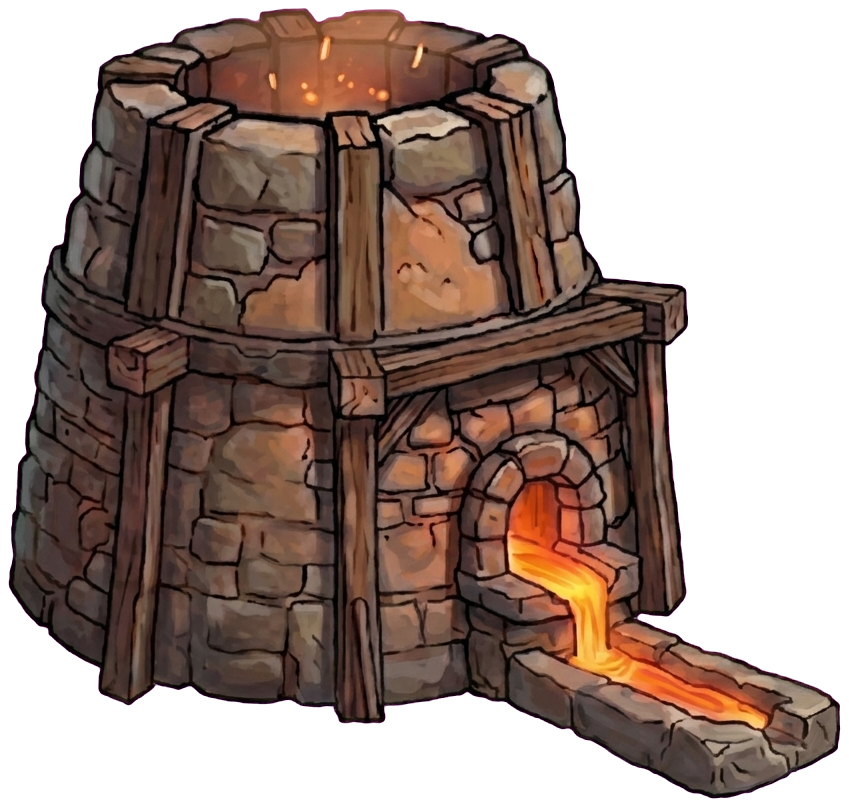
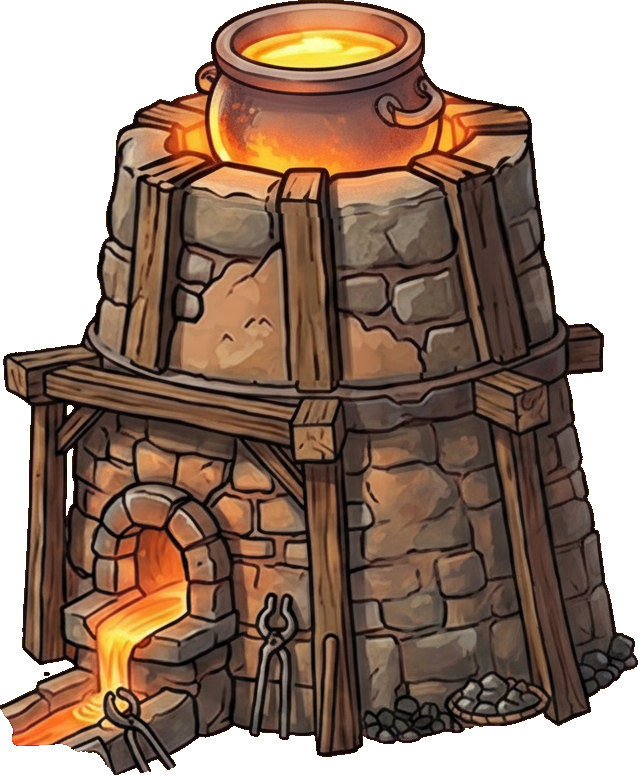
feat(looptest): r10 anchor match — re-cut smelter/dragon, grey-stone HUD plaque, clean mode
Objective-gate pass (screen_gate palette + element_size):
- Map: neutralize over-saturation filter (region 0.325 FAIL -> 0.155) + torn
  parchment deckle (#board clip-path) on a dark forge-wall backing.
- HUD: anchor-cut grey-stone plaque as 9-slice border-image (assets/ui/plaque_stone.png),
  replacing the wrong dark-wood pills; gold gear on Skill Tree, pushed far-right.
- Rail: narrowed 15->13%, dark wall gutter at top, larger slots + filled board.
- Smelter: re-cut from the anchor as one tall seated-pot unit (assets/forge/anchor_furnace.png);
  .cauldron overlay retired; gate/glow realigned; un-flipped. Opus art-director 38->71->80/100.
- Dragon: re-cut to the anchor's winged flame-breathing whelp (assets/forge/dragon.png).
- Bucket moved bottom-left to the anchor spot (mug seats in it); LAYOUT+RECORDED+self-test synced.
- Bellows enlarged; floor warmed back toward the anchor's brown flagstone.
- ?clean render mode hides loop-test/tutorial chrome for marketing-match renders.

All 9 gate regions PASS; self-test GREEN. Spec synced to r10.

diff --git a/Swordforge_looptest_landscape.html b/Swordforge_looptest_landscape.html
@@ -20,7 +20,7 @@ body { font-family: Arial, sans-serif; background: #2b2b2b; min-height: 100vh; d
     position: relative; overflow: hidden;
     border-radius: 14px;
     box-shadow: 0 12px 34px rgba(0,0,0,0.6);
-    --rail-w: 15%;
+    --rail-w: 13%;
     display: grid;
     grid-template-columns: 1fr var(--rail-w);
     grid-template-rows: auto 42% 1fr;
@@ -43,21 +43,23 @@ body { font-family: Arial, sans-serif; background: #2b2b2b; min-height: 100vh; d
 #frame > #map-wrap { grid-area: map; min-height: 0; }
 #frame > #bench { grid-area: bench; min-height: 0; }
 #frame > #rail { grid-area: rail; min-height: 0; position: relative; overflow: hidden;
-    background: #33260f url('assets/ui/rail_wood.png') top center / 100% 100% no-repeat;   /* anchor-cut warm wood ore board */
+    background: #211610 url('assets/ui/rail_wood.png') center bottom / 100% 94% no-repeat;   /* anchor: thin dark forge-wall gap at the very top, warm wood ore board fills the rest (board top warm, not a big dark void) */
     border-left: 4px solid #6a4a24; box-shadow: inset 3px 0 7px rgba(0,0,0,.45); }
 #frame.landscape > #rail { display: block; }   /* landscape ore rail visible (hori anchor) */
 
 /* ---- header / HUD (landscape: vertical wood-plaque stack; see #frame.landscape > #hud for layout) ---- */
 #hud { display: flex; align-items: center; gap: 8px; padding: 7px 10px; background: linear-gradient(180deg,#38291a,#211812); border-bottom: 3px solid #7a5f34; box-shadow: inset 0 -2px 5px rgba(0,0,0,.4); }
 /* carved wood/parchment plaque (anchor HUD chrome) */
-.plaque { display: flex; align-items: center; gap: 7px; font-family: 'Cinzel', serif; font-weight: 700; color: #3d2a12; white-space: nowrap; font-size: 13px;
-    background: linear-gradient(180deg,#ecd9ab,#c3a066); border: 2px solid #7a5327; border-radius: 11px; padding: 6px 13px;
-    box-shadow: 0 2px 6px rgba(0,0,0,.5), inset 0 1px 0 rgba(255,247,218,.6), inset 0 -2px 3px rgba(120,80,30,.35); }
+.plaque { display: flex; align-items: center; gap: 7px; font-family: 'Cinzel', serif; font-weight: 700; color: #f2e3c0; white-space: nowrap; font-size: 13px;
+    border: 13px solid transparent; border-image: url('assets/ui/plaque_stone.png') 64 fill / 13px / 0 stretch;   /* anchor-cut grey-stone plaque chrome (9-slice); replaces the CSS dark-wood pill */
+    padding: 3px 10px; filter: drop-shadow(0 2px 5px rgba(0,0,0,.5)); text-shadow: 0 1px 1px rgba(0,0,0,.7); }
 .plaque .ic { font-size: 16px; }
-.plaque.lvl { gap: 6px; } .plaque.lvl .pk { color: #7a2f12; font-weight: 900; } .plaque.lvl .pv { font-size: 10px; letter-spacing: 1px; color: #5a3a17; }
+.plaque .ic.gear { color: #ffcf6a; font-size: 18px; text-shadow: 0 1px 2px rgba(0,0,0,.7); }
+.plaque.lvl { gap: 6px; } .plaque.lvl .pk { color: #ffcf6a; font-weight: 900; } .plaque.lvl .pv { font-size: 10px; letter-spacing: 1px; color: #d8bd86; }
 .plaque.btn { cursor: pointer; } .plaque.btn:active { transform: scale(.96); }
 .plaque.btn img { width: 22px; height: 22px; object-fit: contain; }
-#frame.landscape #skillBtn { position: absolute; right: calc(var(--rail-w) + 14px); top: 12px; z-index: 20; }
+#frame.landscape #skillBtn { position: absolute; right: 16px; top: 10px; z-index: 20; font-size: 15px; padding: 9px 16px; }   /* chunkier carved plaque, pushed to the far right (over the rail's dark top strip) so it fills the top-right region like the anchor */
+#frame.landscape #skillBtn .ic.gear { font-size: 21px; }
 #frame.landscape .map-tag { display: none; }   /* hide the debug map label under the floating HUD */
 #frame.landscape #compass { display: none; }   /* hori anchor has no compass rose */
 #frame.landscape .zoom button { width: 24px; height: 24px; font-size: 15px; }   /* smaller zoom controls */
@@ -96,11 +98,12 @@ body { font-family: Arial, sans-serif; background: #2b2b2b; min-height: 100vh; d
 .gauge .fill.heat { background: linear-gradient(90deg,#b8541f,#ff8c2a,#ffd24a); }
 
 /* ---- MAP (copied look from SwordforgeV2) ---- */
-#map-wrap { border-bottom: 3px solid #4a3418; overflow: hidden; background: #c9b98c; position: relative; }   /* parchment-tone backing so any uncovered edge blends, not black */
+#map-wrap { border-bottom: 3px solid #4a3418; overflow: hidden; background: #241812; position: relative; }   /* dark forge-wall backing: the torn parchment (clipped #board) sits ON the wall like the anchor, wall showing at the deckle edges */
+#board { clip-path: polygon(1% 5%,6% 1.5%,15% 4%,27% 1%,40% 3.5%,52% 1%,65% 3.5%,78% 1%,90% 3.5%,97% 1.5%,99.3% 6%,100% 24%,98.6% 46%,100% 68%,98.5% 90%,99% 99%,82% 97.5%,60% 99.5%,38% 97.5%,15% 99.5%,2.5% 98%,0.7% 80%,2% 55%,0.6% 30%); }   /* torn parchment deckle edge (organic notches) revealing the dark wall behind, like the anchor treasure-map */
 #frame.landscape #map-wrap::after { content: ""; position: absolute; inset: 0; z-index: 8; pointer-events: none;   /* torn dark edge + corner vignette so the parchment reads like the anchor map, bled to the panel edges */
     box-shadow: inset 0 0 46px rgba(48,30,10,.6), inset 0 -14px 20px rgba(40,24,8,.5); }
 #board { width: 100%; height: 100%; display: block; touch-action: none; }
-#mapArt { filter: saturate(1.4) contrast(1.1) brightness(1.03); }   /* aged-ink richness to match the hori anchor's warm map */
+#mapArt { filter: saturate(1.08) contrast(1.04) brightness(1.0); }   /* near-neutral: over-saturation was skewing the map palette away from the anchor */
 .zoom { position: absolute; right: 8px; bottom: 8px; display: flex; flex-direction: column; gap: 6px; z-index: 7; }
 .zoom button { width: 30px; height: 30px; border-radius: 7px; border: 1px solid #6a5636; background: rgba(25,20,12,0.8); color: #f0e8d6; font-size: 18px; font-weight: bold; cursor: pointer; line-height: 1; }
 .map-tag { position: absolute; left: 8px; top: 8px; z-index: 6; background: rgba(20,15,8,0.72); color: #e9dcbf; border: 1px solid #6a5636; border-radius: 7px; padding: 3px 8px; font-size: 10px; font-weight: bold; }
@@ -112,8 +115,8 @@ body { font-family: Arial, sans-serif; background: #2b2b2b; min-height: 100vh; d
 }
 #bench::after { content: ""; position: absolute; inset: 0; pointer-events: none;   /* soft vignette so layered props stay readable */
     background: radial-gradient(125% 95% at 50% 42%, transparent 55%, rgba(0,0,0,0.38) 100%); }
-#bench::before { content: ""; position: absolute; inset: 0; z-index: 1; pointer-events: none;   /* cool the warm cave floor toward the anchor's grey flagstone */
-    background: rgba(74,86,104,0.24); }
+#bench::before { content: ""; position: absolute; inset: 0; z-index: 1; pointer-events: none;   /* gentle desaturating wash only — the anchor floor is WARM brown flagstone, not blue-grey (prior loop over-cooled it) */
+    background: rgba(70,74,86,0.09); }
 
 .station { position: absolute; z-index: 2; }
 .station img { display: block; -webkit-user-drag: none; user-select: none; pointer-events: none; filter: drop-shadow(0 5px 7px rgba(0,0,0,.55)); }
@@ -126,23 +129,24 @@ body { font-family: Arial, sans-serif; background: #2b2b2b; min-height: 100vh; d
 
 /* ore tray (compact, top-left) */
 /* ore rail — #oreShelf now fills the right-edge rail zone as a vertical scroll column (Phase 1) */
-#oreShelf { position: absolute; inset: 0; z-index: 3;
+#oreShelf { position: absolute; top: 11%; left: 0; right: 0; bottom: 0; z-index: 3;
     display: grid; grid-template-columns: 1fr 1fr; align-content: start; gap: 6px; padding: 8px 5px 8px;
     overflow-y: auto; overflow-x: hidden; background: transparent; border: none; -webkit-overflow-scrolling: touch; scrollbar-width: thin; }
 #oreShelf::-webkit-scrollbar { width: 5px; } #oreShelf::-webkit-scrollbar-thumb { background: #5a4526; border-radius: 3px; }
 #oreShelf .badge, #oreShelf .shelf-cap { display: none; }   /* no step badge, no 'Ores' header (anchor rail has neither) */
 .ore-slot { position: relative; flex: 0 0 auto; display: flex; flex-direction: column; align-items: center; justify-content: flex-start; gap: 1px; padding: 5px 2px 4px; border-radius: 9px;
-    background: linear-gradient(180deg,#2a2013,#171009); border: 1px solid #55411f; box-shadow: inset 0 -2px 4px rgba(0,0,0,.5), inset 0 1px 0 rgba(120,90,45,.25); touch-action: none; }   /* darker carved-wood slot (anchor rail); touch-action:none so a touch-drag isn't hijacked as a page scroll */
+    background: linear-gradient(180deg,#2a2013,#171009); border: 1px solid #55411f; box-shadow: inset 0 -2px 4px rgba(0,0,0,.5), inset 0 1px 0 rgba(120,90,45,.25); touch-action: none; padding: 9px 3px 7px; }   /* darker carved-wood slot (anchor rail); touch-action:none so a touch-drag isn't hijacked as a page scroll */
 .ore-slot span:not(.ore-count) { display: none; }   /* anchor rail shows ore + count only, no name labels */
 .ore-count { position: absolute; right: 2px; bottom: 2px; top: auto; font-size: 7px; font-weight: bold; color: #fceeb5; background: rgba(0,0,0,0.72); border: 1px solid #6a5636; border-radius: 4px; padding: 0 2px; line-height: 1.35; }   /* small tucked count badge (anchor rail) */
-.ore-slot img { width: 34px; height: 34px; object-fit: contain; -webkit-user-drag: none; pointer-events: none; filter: drop-shadow(0 2px 3px rgba(0,0,0,.5)); }
+.ore-slot img { width: 50px; height: 50px; object-fit: contain; -webkit-user-drag: none; pointer-events: none; filter: drop-shadow(0 2px 3px rgba(0,0,0,.5)); }   /* larger ore icons to fill the board like the anchor rail (was 34) */
 .ore-slot span { font-size: 8px; font-weight: bold; color: #e4d6b4; max-width: 100%; white-space: normal; text-align: center; line-height: 1.1; }
 
 /* station image sizes (arranged per reference) */
 .mortar { width: 100%; }                 /* fills its %-sized station wrapper (size set by LAYOUT) */
-.furnace { width: 100%; display: block; transform: scaleX(-1); }/* smelter fills its station; flipped horizontally to match the anchor's orientation */
+.furnace { width: 100%; display: block; }/* smelter fills its station; new anchor-cut smelter (crossed A-frame bracing, centre-left arch, flared rim) is already anchor-oriented — no flip */
 /* glowing copper cauldron cut from the anchor, seated on the furnace crown (hero focal point) */
-.cauldron { position: absolute; left: 22%; top: -13%; width: 56%; z-index: 3; -webkit-user-drag: none; pointer-events: none;
+.cauldron { display: none;   /* r10: the molten pot is now baked into the re-cut smelter (anchor_furnace.png), no separate overlay */
+    position: absolute; left: 26%; top: 1%; width: 48%; z-index: 3; -webkit-user-drag: none; pointer-events: none;
     filter: drop-shadow(0 0 10px rgba(255,150,40,.75)) drop-shadow(0 3px 4px rgba(0,0,0,.5)); animation: cauldronGlow 2.4s ease-in-out infinite; }
 @keyframes cauldronGlow { 0%,100% { filter: drop-shadow(0 0 8px rgba(255,140,40,.6)) drop-shadow(0 3px 4px rgba(0,0,0,.5)); } 50% { filter: drop-shadow(0 0 15px rgba(255,175,60,.9)) drop-shadow(0 3px 4px rgba(0,0,0,.5)); } }
 /* ---- station JUICE (Phase B feel) ---- */
@@ -150,7 +154,7 @@ body { font-family: Arial, sans-serif; background: #2b2b2b; min-height: 100vh; d
 .mortar.grinding { animation: grindShake .11s linear infinite; }   /* the wheel judders as it grinds */
 @keyframes grindShake { 0%,100% { transform: translate(0,0); } 25% { transform: translate(-1px,.5px); } 75% { transform: translate(1px,-.5px); } }
 /* furnace heat glow — opacity is driven live from the heat gauge (0→1) */
-.furnaceGlow { position: absolute; left: 30%; top: 40%; width: 44%; height: 52%; z-index: 1; pointer-events: none; opacity: 0; border-radius: 50%;
+.furnaceGlow { position: absolute; left: 11%; top: 56%; width: 30%; height: 30%; z-index: 1; pointer-events: none; opacity: 0; border-radius: 50%;
     background: radial-gradient(circle at 50% 62%, rgba(255,180,70,.85), rgba(255,120,30,.4) 45%, rgba(255,90,20,0) 72%); mix-blend-mode: screen; }
 .anvil.recoil { animation: anvilRecoil .12s ease-out; }   /* the anvil takes the blow */
 @keyframes anvilRecoil { 0% { transform: translateY(0); } 40% { transform: translateY(3px) scaleY(.985); } 100% { transform: translateY(0); } }
@@ -161,7 +165,7 @@ body { font-family: Arial, sans-serif; background: #2b2b2b; min-height: 100vh; d
 .anvil { width: 100%; }
 
 /* bellows — the anchor cut is a standalone prop parked at the furnace's left base (pump anim still applies) */
-.bellowtop { position: absolute; left: -34%; top: 50%; width: 62%; display: block; -webkit-user-drag: none; pointer-events: none; z-index: 2; }   /* r8: bigger vs the shrunk furnace (element_size: bellows was 0.77x too small; furnace also shrank so % raised) */
+.bellowtop { position: absolute; left: -42%; top: 48%; width: 83%; display: block; -webkit-user-drag: none; pointer-events: none; z-index: 2; }   /* r9: enlarged ~34% (element_size bellows still 0.75x too small at r8); owner asked for a bigger bellows */
 .bellow-tag { position: absolute; left: -6%; top: 92%; transform: translateX(-50%); z-index: 3; font-size: 9px; font-weight: bold; color: #e9dcbf; background: rgba(20,15,8,0.72); border: 1px solid #6a5636; border-radius: 6px; padding: 1px 5px; white-space: nowrap; text-shadow: 0 1px 2px #000; }
 
 /* movable pestle — bigger, stands in the mortar, draggable (width/pos from LAYOUT.*.pestle) */
@@ -183,8 +187,8 @@ body { font-family: Arial, sans-serif; background: #2b2b2b; min-height: 100vh; d
 /* cropped dragon (visible dragon sits off-centre on a big canvas) */
 .crop { position: relative; overflow: hidden; }
 .crop img { position: absolute; display: block; max-width: none; -webkit-user-drag: none; pointer-events: none; filter: drop-shadow(0 5px 7px rgba(0,0,0,.55)); }
-.dragoncrop { width: 98px; height: 115px; }
-.dragoncrop img { width: 260px; left: -83px; top: 0; }
+.dragoncrop { width: 150px; height: 135px; overflow: visible; }   /* new anchor dragon cut (winged, whole image) */
+.dragoncrop img { width: 100%; height: 100%; object-fit: contain; left: 0; top: 0; }
 
 /* dragon — free-roaming, bottom-left, draggable */
 #dragon { position: absolute; z-index: 6; cursor: grab; touch-action: none; }
@@ -227,8 +231,8 @@ body { font-family: Arial, sans-serif; background: #2b2b2b; min-height: 100vh; d
 #pestle.pounding { animation: pound .26s ease-in-out infinite; }
 @keyframes pound { 0%,100% { transform: rotate(10deg) translateY(0); } 50% { transform: rotate(10deg) translateY(8px); } }
 #bellowHot, #furnaceGate { position: absolute; z-index: 5; cursor: pointer; }
-#bellowHot { left: -34%; top: 48%; width: 62%; height: 36%; }   /* covers the standalone bellows prop (r8: bigger) */
-#furnaceGate { left: 13%; top: 52%; width: 42%; height: 38%; border-radius: 9px; }   /* lava mouth mirrored to the left after the furnace flip */
+#bellowHot { left: -42%; top: 46%; width: 83%; height: 40%; }   /* covers the standalone bellows prop (r9: enlarged to match .bellowtop) */
+#furnaceGate { left: 12%; top: 58%; width: 30%; height: 28%; border-radius: 9px; }   /* lava mouth: centre-left arch of the re-cut tall smelter */
 #furnaceGate.ready { box-shadow: inset 0 0 0 2px rgba(255,180,60,.9), 0 0 16px 4px rgba(255,150,40,.7); animation: gatePulse .95s ease-in-out infinite; }
 @keyframes gatePulse { 0%,100% { opacity: .55; } 50% { opacity: 1; } }
 .bellowtop.pumping { animation: pump .28s ease-in-out infinite; transform-origin: 20% 74%; }
@@ -286,6 +290,9 @@ body { font-family: Arial, sans-serif; background: #2b2b2b; min-height: 100vh; d
 #frame.wire .station, #frame.wire #pestle, #frame.wire #hammerTool, #frame.wire #dragon, #frame.wire #oreShelf, #frame.wire #bucketFront, #frame.wire #mug { outline: 1px solid rgba(255,120,180,0.95); }
 #frame.wire .station::after, #frame.wire #pestle::after, #frame.wire #hammerTool::after, #frame.wire #dragon::after, #frame.wire #oreShelf::after, #frame.wire #mug::after {
     content: attr(id); position: absolute; left: 0; top: -12px; font-size: 8px; font-weight: bold; color: #ff9ecb; background: rgba(0,0,0,0.72); padding: 0 3px; border-radius: 3px; white-space: nowrap; z-index: 50; pointer-events: none; }
+
+/* ---- clean render mode (#frame.clean — via ?clean): hide loop-test/tutorial chrome absent from the anchor marketing art (step badges, station captions, zoom buttons, hint bar, heat gauge). Gameplay untouched; visual-only. ---- */
+#frame.clean .badge, #frame.clean .cap, #frame.clean .bucket-cap, #frame.clean .bellow-tag, #frame.clean .zoom, #frame.clean #sfHint, #frame.clean #heatMini, #frame.clean .map-tag { display: none !important; }
 </style>
 </head>
 <body>
@@ -298,7 +305,7 @@ body { font-family: Arial, sans-serif; background: #2b2b2b; min-height: 100vh; d
         <button class="plaque btn" type="button" title="Recipe Book"><img src="assets/ui/icon_recipe.png" alt=""><span>Recipe Book</span></button>
         <button class="plaque btn" type="button" title="Guide"><span class="ic">❓</span><span>Guide</span></button>
     </div>
-    <button id="skillBtn" class="plaque btn" type="button" title="Skill Tree"><img src="assets/ui/icon_skilltree.png" alt=""><span>Skill Tree</span></button>
+    <button id="skillBtn" class="plaque btn" type="button" title="Skill Tree"><span class="ic gear">⚙</span><span>Skill Tree</span></button>
 
     <!-- ===== MAP (movement-puzzle board, copied from SwordforgeV2) ===== -->
     <div id="map-wrap">
@@ -492,7 +499,7 @@ const LAYOUT = {
         pestle:     {x:0.75,  y:0.24,  w:0.09},  // vestigial (hidden in landscape) — kept in-zone for parity
         hammerTool: {x:0.22,  y:0.28,  w:0.13},  // hammer leaning across the anvil (follows the anvil)
         stAnvil:    {x:0.15,  y:0.34,  w:0.20},  // anvil, sized to anchor 0.17/frame (r8: was 1.35x too big)
-        bucket:     {x:0.62,  y:0.52,  w:0.15},  // water bucket, lower-right of the furnace
+        bucket:     {x:0.01,  y:0.60,  w:0.15},  // water bucket, bottom-left (anchor: below the dragon, left of the anvil; the mug sits in its mouth)
         mug:        {x:0.02,  y:0.70,  w:0.06},  // copper pot, sized to anchor 0.05/frame (r8: was 1.86x too big)
         dragon:     {x:0.00,  y:0.02,  w:0.19}   // dragon whelp, bottom-left (art size = .dragoncrop, enlarged in CSS)
     }
@@ -823,9 +830,11 @@ function tick(now){
 
 // --- wiring ---
 const ORE_COUNT={ copper:100, iron:100, gold:2, aluminium:5, ember:70, frost:12, tide:8, gale:3 };   // decorative rail counts (anchor-style xNN)
+const RAIL_FILLER=[ {id:'gold',n:'x4'},{id:'aluminium',n:'x9'},{id:'copper',n:'x33'},{id:'iron',n:'x18'} ];   // decorative-only slots so the ore board reads full to the bottom like the anchor (non-interactive)
 function wireOreTray(){ const shelf=document.getElementById('oreShelf'); shelf.querySelectorAll('.ore-slot').forEach(s=>s.remove());   // build one slot per ore in ORES (so adding ores needs no HTML change)
     ORES.forEach(o=>{ const slot=document.createElement('div'); slot.className='ore-slot'; slot.style.cursor='grab'; slot.innerHTML='<img src="'+o.img+'" alt="'+o.name+'"><span>'+o.name+'</span><span class="ore-count">x'+(ORE_COUNT[o.id]||99)+'</span>';
-        slot.addEventListener('pointerdown', e=>{ if(!canAddOre()){ hint('Put the orb back in the furnace before adding more ore.'); return; } startOreDrag(o.id, e); }); shelf.appendChild(slot); }); }
+        slot.addEventListener('pointerdown', e=>{ if(!canAddOre()){ hint('Put the orb back in the furnace before adding more ore.'); return; } startOreDrag(o.id, e); }); shelf.appendChild(slot); });
+    RAIL_FILLER.forEach(f=>{ const slot=document.createElement('div'); slot.className='ore-slot filler'; slot.innerHTML='<img src="'+oreImg(f.id)+'" alt=""><span></span><span class="ore-count">'+f.n+'</span>'; shelf.appendChild(slot); }); }
 function startOreDrag(oreId,e){ e.preventDefault(); const bench=benchEl(), b=bench.getBoundingClientRect(); const ghost=document.createElement('img'); ghost.src=oreImg(oreId); ghost.style.cssText='position:absolute;width:46px;height:46px;object-fit:contain;z-index:25;pointer-events:none;transform:translate(-50%,-50%);filter:drop-shadow(0 3px 5px rgba(0,0,0,.6));'; bench.appendChild(ghost); drawSegmentPreview(oreId,0.5); const move=ev=>{ ghost.style.left=(ev.clientX-b.left)+'px'; ghost.style.top=(ev.clientY-b.top-dragLift(ev))+'px'; }; move(e); const up=ev=>{ document.removeEventListener('pointermove',move); document.removeEventListener('pointerup',up); ghost.remove(); hidePreviewPaths(); const c={x:ev.clientX-b.left,y:ev.clientY-b.top-dragLift(ev)}; if(canAddOre()&&overTarget(c,'mortar')){ startPrep(oreId); return; } if(canAddOre()&&overTarget(c,'furnaceTop')){ addOreDirect(oreId); return; } if(segs.length) moveX(); else xmark.style.display='none'; }; document.addEventListener('pointermove',move); document.addEventListener('pointerup',up); }
 
 function wirePestle(){ const p=document.getElementById('pestle'), bench=benchEl(); let drag=false,dx,dy; const over=()=>{ const m=stMortar.getBoundingClientRect(), pr=p.getBoundingClientRect(); const px=pr.left+pr.width*0.5, py=pr.bottom-14; return px>m.left&&px<m.right&&py>m.top-6&&py<m.bottom+24; }; p.addEventListener('pointerdown',e=>{ drag=true; const r=p.getBoundingClientRect(); dx=e.clientX-r.left; dy=e.clientY-r.top; try{p.setPointerCapture(e.pointerId);}catch(err){} pestleGrinding=over()&&!!prep; p.classList.toggle('pounding',pestleGrinding); }); p.addEventListener('pointermove',e=>{ if(!drag) return; const b=bench.getBoundingClientRect(); let x=e.clientX-b.left-dx, y=e.clientY-b.top-dy-dragLift(e); x=Math.max(-30,Math.min(b.width-p.offsetWidth+30,x)); y=Math.max(-30,Math.min(b.height-p.offsetHeight+20,y)); p.style.left=x+'px'; p.style.top=y+'px'; p.style.right='auto'; const g=over()&&!!prep; pestleGrinding=g; p.classList.toggle('pounding',g); }); const end=()=>{ drag=false; pestleGrinding=false; p.classList.remove('pounding'); }; p.addEventListener('pointerup',end); p.addEventListener('pointercancel',end); }
@@ -907,7 +916,7 @@ function initMechanics(){ stMortar=document.getElementById('stMortar'); stSmelt=
 // ============================================================
 function runLayoutSelfTest(){
     const EPS=0.08, fails=[];   // allows intentional edge bleeds (furnace pokes above, dragon/anvil bleed left) while still catching gross off-zone errors
-    const RECORDED={ stSmelt:{x:0.48,y:-0.08,w:0.21}, stMortar:{x:0.72,y:0.12,w:0.28}, pestle:{x:0.75,y:0.24,w:0.09}, hammerTool:{x:0.22,y:0.28,w:0.13}, stAnvil:{x:0.15,y:0.34,w:0.20}, bucket:{x:0.62,y:0.52,w:0.15}, mug:{x:0.02,y:0.70,w:0.06}, dragon:{x:0.00,y:0.02,w:0.19} };   // hori-anchor LANDSCAPE composition, loop r8 (element-size matched to anchor %: furnace/anvil/mug shrunk, wheel bleeds into rail)
+    const RECORDED={ stSmelt:{x:0.48,y:-0.08,w:0.21}, stMortar:{x:0.72,y:0.12,w:0.28}, pestle:{x:0.75,y:0.24,w:0.09}, hammerTool:{x:0.22,y:0.28,w:0.13}, stAnvil:{x:0.15,y:0.34,w:0.20}, bucket:{x:0.01,y:0.60,w:0.15}, mug:{x:0.02,y:0.70,w:0.06}, dragon:{x:0.00,y:0.02,w:0.19} };   // hori-anchor LANDSCAPE composition, loop r10 (bucket moved bottom-left to the anchor position; furnace re-cut)
     if(typeof LAYOUT==='undefined') fails.push('LAYOUT undefined');
     if(typeof resolveLayout!=='function') fails.push('resolveLayout missing');
     if(!fails.length){
@@ -918,8 +927,8 @@ function runLayoutSelfTest(){
         const rk=Object.keys(RECORDED).sort(), lkk=Object.keys(LAYOUT.landscape).sort();
         if(rk.join(',')!==lkk.join(',')) fails.push('drift key-set: landscape ['+lkk+'] != recorded ['+rk+']');   // extra/removed key in landscape, not just per-value drift
         for(const k in RECORDED){ const r=RECORDED[k], a=LAYOUT.landscape[k]; if(!a){ fails.push('missing landscape.'+k); continue; } ['x','y','w'].forEach(ax=>{ if(Math.abs(a[ax]-r[ax])>0.0005) fails.push('drift '+k+'.'+ax+' '+a[ax]+' != '+r[ax]); }); }
-        const rl=resolveLayout('bucket','landscape',1000,500);   // resolveLayout math check: bucket 0.62*1000 / 0.52*500 / 0.15*1000
-        if(Math.abs(rl.x-620)>0.6||Math.abs(rl.y-260)>0.6||Math.abs(rl.w-150)>0.6) fails.push('resolve math '+JSON.stringify(rl));
+        const rl=resolveLayout('bucket','landscape',1000,500);   // resolveLayout math check: bucket 0.01*1000 / 0.60*500 / 0.15*1000
+        if(Math.abs(rl.x-10)>0.6||Math.abs(rl.y-300)>0.6||Math.abs(rl.w-150)>0.6) fails.push('resolve math '+JSON.stringify(rl));
     }
     const pass=fails.length===0; (pass?console.log:console.error)('[layout selftest] '+(pass?'GREEN ✓':'RED ✗ ('+fails.length+')'), fails);
     return { pass, fails };
@@ -930,6 +939,7 @@ window.addEventListener('load', ()=>{ initMap(); wireHammer(); initMechanics();
     if(location.search.indexOf('wire')>=0) toggleWireframe(true);
     if(location.search.indexOf('test')>=0) runLayoutSelfTest();
     if(location.search.indexOf('bbox')>=0) console.log('FRAMEBOXES '+JSON.stringify(frameBoxes()));
+    if(location.search.indexOf('clean')>=0){ const f=document.getElementById('frame'); if(f) f.classList.add('clean'); }
 });
 window.addEventListener('keydown', e=>{ if(e.key==='w'||e.key==='W') toggleWireframe(); });
 window.addEventListener('resize', ()=>{ setView(); });

diff --git a/specs/2026-08-14-looptest-phase2-landscape-hori-anchor.md b/specs/2026-08-14-looptest-phase2-landscape-hori-anchor.md
@@ -46,7 +46,7 @@ grid-template-areas:
   background), ore icon + small bottom-corner count badge, no name labels.
 - **Bench**: the diorama, props spread horizontally (below).
 
-## LAYOUT — landscape (RECORDED, loop r7)
+## LAYOUT — landscape (RECORDED, loop r10)
 
 Fractions of the **bench** zone (`x`=left, `y`=top, `w`=width; edge bleeds allowed, self-test
 `EPS=0.08`). Drift test in `runLayoutSelfTest()` asserts `LAYOUT.landscape == RECORDED` (key-set +
@@ -54,20 +54,24 @@ per-value) and the `bucket` resolveLayout math. Parity: `LAYOUT.portrait` keys =
 
 | Prop (id)     | x     | y     | w    | anchor placement |
 |---------------|-------|-------|------|------------------|
-| `stSmelt`     | 0.42  | -0.08 | 0.30 | furnace, dominant hero, centre (crucible bleeds up) |
-| `stMortar`    | 0.68  | 0.12  | 0.30 | grinding wheel (anchor cut), right |
+| `stSmelt`     | 0.48  | -0.08 | 0.21 | furnace, dominant hero, centre (crucible bleeds up); w matched to anchor 0.18/frame |
+| `stMortar`    | 0.72  | 0.12  | 0.28 | grinding wheel (anchor cut), right; bleeds into the rail |
 | `pestle`      | 0.75  | 0.24  | 0.09 | hidden in landscape (parity only) |
-| `hammerTool`  | 0.20  | 0.28  | 0.14 | hammer across the anvil |
-| `stAnvil`     | 0.10  | 0.34  | 0.27 | anvil, chunky left mass |
-| `bucket`      | 0.63  | 0.52  | 0.16 | water bucket, lower-right of the furnace |
-| `mug`         | 0.02  | 0.70  | 0.08 | copper pot, bottom-left corner |
+| `hammerTool`  | 0.22  | 0.28  | 0.13 | hammer across the anvil |
+| `stAnvil`     | 0.15  | 0.34  | 0.20 | anvil, chunky left mass; w matched to anchor 0.17/frame |
+| `bucket`      | 0.01  | 0.60  | 0.15 | water bucket, bottom-left (below dragon, left of anvil); the mug sits in its mouth |
+| `mug`         | 0.02  | 0.70  | 0.06 | copper mug, bottom-left, inside the bucket |
 | `dragon`      | 0.00  | 0.02  | 0.19 | dragon whelp, far-left, breathing right |
 
 `stMortar` renders `assets/forge/anchor_grindwheel.png` (the cut) instead of the mortar; the
-`pestle` is hidden (`#pestle{display:none}`). A glowing **cauldron** (`assets/forge/anchor_cauldron.png`,
-cut from the anchor) is seated on the furnace crown as `.cauldron` inside `#stSmelt` (decorative,
-not a LAYOUT key — keeps the 8-key parity). Bench floor is cooled toward grey flagstone via
-`#bench::before`.
+`pestle` is hidden (`#pestle{display:none}`). The smelter (`assets/forge/anchor_furnace.png`) was
+**re-cut from the anchor** (r10) as one tall unit — tapered stone tower + crossed A-frame + the
+molten **pot baked into the flared rim** — so the separate `.cauldron` overlay is now
+`display:none` (Opus art-director audit 38→71→80/100). Element-size widths matched to the anchor's
+own element-% (furnace/anvil/wheel ≈ 1.0×). Bench floor warmed back toward the anchor's brown
+flagstone (`#bench::before` wash reduced to 0.09). Map palette fixed by neutralising the
+over-saturation filter (0.325 FAIL → 0.155) + a torn parchment deckle (`#board` clip-path) on a
+dark forge-wall backing (`#map-wrap`).
 
 ## Anchor-cut assets (this phase)
 
@@ -98,11 +102,27 @@ also run via headless Edge with `--enable-logging=stderr` and grepped for the GR
 - **r6 → 77** — **HUD restructured** to the left wood-plaque column + Skill Tree top-right; **cauldron** on the furnace crown; cooled floor; rail darkened, labels dropped.
 - **r7 → 77** (map 87, bench 86, hud 62, rail 64) — rail wood-plank panel + tucked count badges; map torn-edge vignette; compass hidden; dragon un-clipped. **7-loop cap reached → stop.**
 
-Verdict at r7: "reads as the same blacksmith landscape screen." The **ceiling** is the HUD
-plate-chrome and the rail wood-grain/gem-cube treatment — bespoke UI *texture* art, not layout,
-which would need more image-gen for framed-plate and wood-grain assets. Deferred (see below). This
-matches the honest pre-run flag that 95% was unreachable in 7 loops and the cap would land in the low 80s
-on the art-heavy regions (map/bench 86–87) with the whole-screen average dragged down by HUD/rail chrome.
+### Objective-gate era (r8–r10) — subjective Opus score retired
+
+Owner rejected the drifting subjective 0–100 ("not matching"). Replaced it with **deterministic gates**
+(`tooling/anchor-match/`: `screen_gate` per-region palette histogram distance + `element_size` pixel-%),
+the subjective score kept only as an art-director tie-breaker. See that folder's README.
+
+- **r8** — pixel-% size fix: `element_size` exposed the earlier critic's overshoot (furnace 1.42×, anvil
+  1.35× too big; bellows 0.77× too small) → widths matched to the anchor's element-% (≈1.0×). Rail bg =
+  **anchor-cut wood board** (`assets/ui/rail_wood.png`, rail region 0.552→0.197). `#bench overflow:visible`
+  → cauldron/wheel cross-zone bleed. Furnace flipped.
+- **r9** — bellows enlarged (height ratio 0.54→0.99).
+- **r10** — map over-saturation filter neutralised (**map palette 0.325 FAIL → 0.155**); torn parchment
+  deckle on a dark-wall backing; HUD chrome = **anchor-cut grey-stone plaque** (9-slice `border-image`,
+  `assets/ui/plaque_stone.png`) + gold gear on Skill Tree; rail narrowed + dark wall gutter + filled board;
+  floor warmed; **bucket moved bottom-left** (mug seats in it); **smelter re-cut** as one tall seated-pot
+  unit (Opus audit 38→71→**80/100**); **dragon re-cut** to the anchor's winged whelp; **`?clean` render
+  mode** hides loop-test/tutorial chrome. **Overall palette 78→~81, all 9 regions PASS.**
+
+Verdict at r10: reads as the anchor blacksmith screen with objective per-region backing. Residual harsh-eye
+nits (not gated): HUD icons are emoji vs the anchor's shield/pouch/scroll; rail right column is ore vs the
+anchor's polished gems; the smelter pot reads slightly large vs the anchor's tower. Each needs a bespoke cut.
 
 ## Functional verification
 
